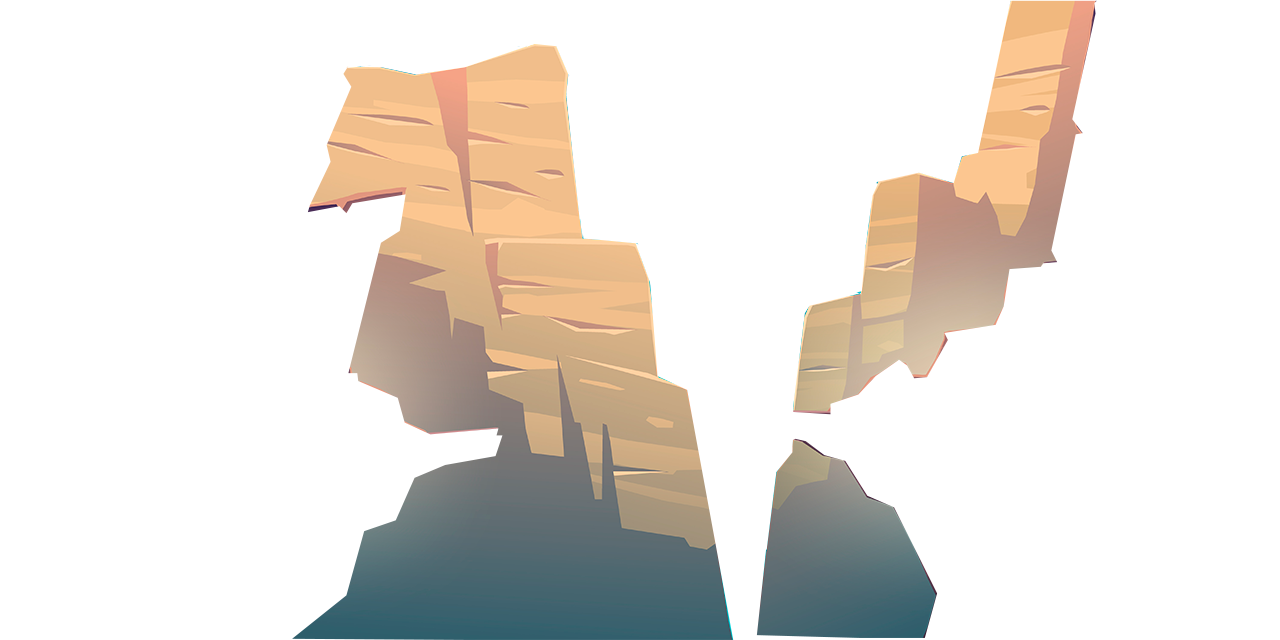
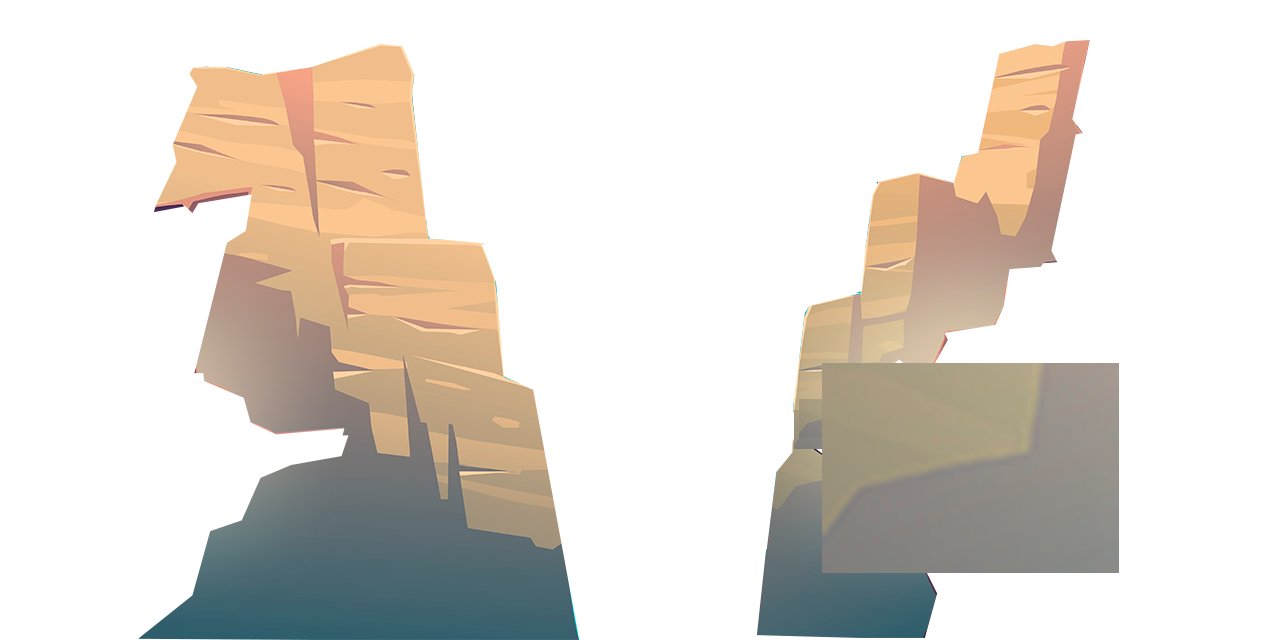
Finish Design

diff --git a/index.html b/index.html
@@ -18,7 +18,7 @@
     <img src="img/PolvoDeEstrellas.png" id="stars"alt="" class="img-stars">
     <img src="img/bg-p2.png" class="img-back" alt="" id="montain-front">
     <img src="img/bb-p.png" alt="" id="montain-back" class="img-back">
-    <h2 id="text-b">ASI CAPTO LA <br>NASA EN EL PASADO</h2>
+    <h2 id="text-b">DATO CURIOSO <br>POR FECHA</h2>
 
     <div class="container-luna" id="luna" >
       <div class="planet"></div>
@@ -40,9 +40,10 @@
       </div>
     </div>
 
-    <div class="row">
-        <div class="col-4">
-            <img src="" class="" alt="" id="wrapper-url">
+    <div class="row d-flex align-content-center">
+       
+        <div class="col ">
+            <!-- <img src="" class="" alt="" id="wrapper-url"> -->
             
             <!-- <div class="bg-image hover-overlay ripple shadow-1-strong rounded" data-mbd-ripple-color="light"><
                 <img src="" alt="" class="w-100" id="wrapper-url">
@@ -55,19 +56,30 @@
             <!-- <div class="ratio ratio-16x9">
                 <iframe src="" frameborder="0" allowfullscreen></iframe>
             </div> -->
+            <h5 id="wrapper-title" class="animation-text"></h5>
+           
 
-            <section id="wrapper-media">
+        </div>   
+        <div class="col"> 
+           
+          <section id="wrapper-media" class="img-api">
 
-            </section>
+          </section>
         </div>
-
-        <div class="col-8">
-            <h5 id="wrapper-title"></h5>
+    <div class="row">
+        <div class="col-12">
+           
             <p class="text-muted copyright"> Copyright
                 <span id="wrapper-copyright"></span>
             </p>
             <p id="wrapper-explanation"></p>
         </div>
+    </div>
+    <div class="row">
+      <div class="col">
+        <img src="img/m-1.png" class="img-back-mon" alt="">
+      </div>
+    </div>
     </div>
 
    

diff --git a/js/parallax.js b/js/parallax.js
@@ -4,13 +4,28 @@ let montainBack = document.getElementById('montain-back');
 let textoPortada = document.getElementById('text-b');
 let containerApi = document.getElementById('container-api');
 let stars = document.getElementById('stars');
+let animationText = document.getElementById('wrapper-title');
 
 window.addEventListener('scroll',() => {
         let value = window.scrollY;
-        console.log(value);
+        //  console.log(value);
         stars.style.left = value * 0.25 + 'px';
+        if (value <= 400) {
         luna.style.top =  value *0.25 + 50 + '%';
+        
+        }
         montainBack.style.top =  120 + value/3 + 'px';
+        if(value >=150){
         montainBack.style.right = value * 0.5 + 'px';
-
+        }
     });
+
+    function titleAnimation(title){
+        let titleWords = title;
+        console.log(titleWords)
+        animationText.style.width = titleWords.length  + 3+ 'ch';
+        console.log(titleWords.length);
+        animationText.style.animation = `typing 2s steps(${titleWords.length}), blink .5s infinite step-end alternate`;
+        // animationText.style.width = 0 + 'ch';
+    }    
+   

diff --git a/css/style.css b/css/style.css
@@ -14,9 +14,22 @@ h1 {
     color: #fff;
 }
 h5{
+    display: block;
+     /* width: 35ch;  */
+    font-family: monospace;
+    white-space: nowrap;
+    border-right: 4px solid;
+
+    /* animation: typing 2s steps(12), blink .5s infinite step-end alternate; */
+    overflow: hidden;
     color: #fff;
 }
 
+.flechas-left{
+    position: absolute;
+    left: 2%;
+    top: 1%
+}
 .mask{
     background-color : rgba(251,251,251,0.2);
 }
@@ -75,9 +88,19 @@ h5{
 
 }
 
+
 .img-back{
     position: absolute;
     top: 0; 
+    left: 0;
+    width: 100%;
+    height: 100%;
+    object-fit: cover;
+    pointer-events: none;
+}
+.img-back-mon{
+    position: absolute;
+    top: 11%; 
     left: 0;
     width: 100%;
     height: 100%;
@@ -105,6 +128,9 @@ h5{
 
 }
 
+.img-api{
+    width: 60%;
+}
 #text-b{
     position: absolute;
     color: #fff;
@@ -180,6 +206,8 @@ h5{
     font-size: 1em;
     color: #fff
 }
+
+
 @keyframes spin{
     49%{
         z-index: 1;
@@ -193,4 +221,13 @@ h5{
     100%{
         z-index: -1;
     }
+}
+
+@keyframes typing{
+    from{ width: 0};
+
+}
+
+@keyframes blink{
+    50%{border-color: transparent};
 }

diff --git a/js/script.js b/js/script.js
@@ -9,7 +9,7 @@ xmlhttp.onreadystatechange = function (){
       let explanation  = data["explanation"];
       let hdurl  = data["hdurl"];
       let media_type  = data["media_type"];
-      let title   = data["title"];
+      title   = data["title"];
       let url  = data["url"];
 
       let imageType = `
@@ -53,6 +53,7 @@ xmlhttp.onreadystatechange = function (){
             document.getElementById("wrapper-image").src = url;
             document.getElementById("wrapper-hdurl").href = hdurl;
         }
+         titleAnimation(title);
     }
   }
 let datepicker_date = document.getElementById("wrapper-day").value;
@@ -64,13 +65,13 @@ let queryFull = queryUrl + queryKey + queryDate;
 xmlhttp.open('GET',queryFull,true);
 xmlhttp.send();
 }
-
 nasaRequest();
 const myDatepicker = document.getElementById("date-picker");
 myDatepicker.addEventListener('change',() => {
     nasaRequest();
-    
+   
 });     
 
 nasaRequest.onload;
+// titleAnimation.onload;
 // nasaRequest();
